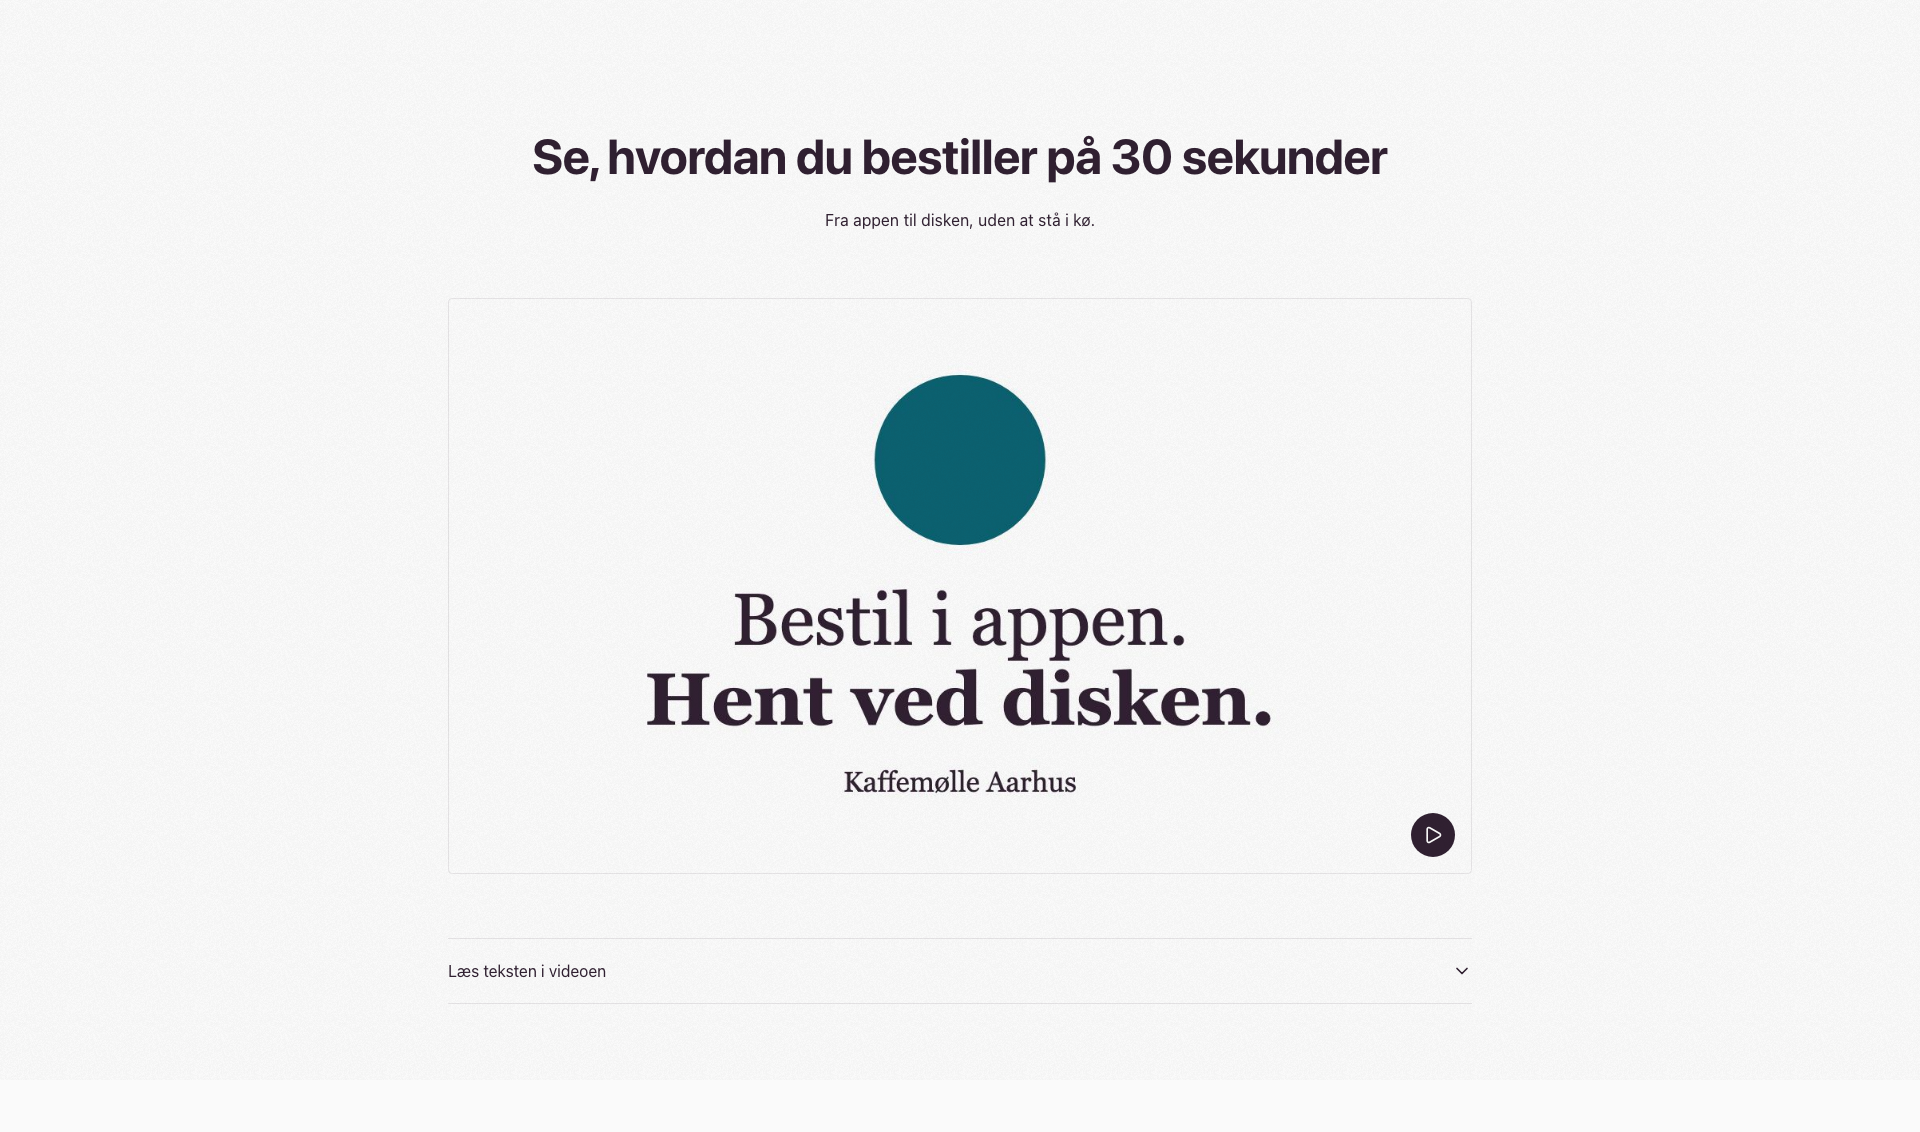
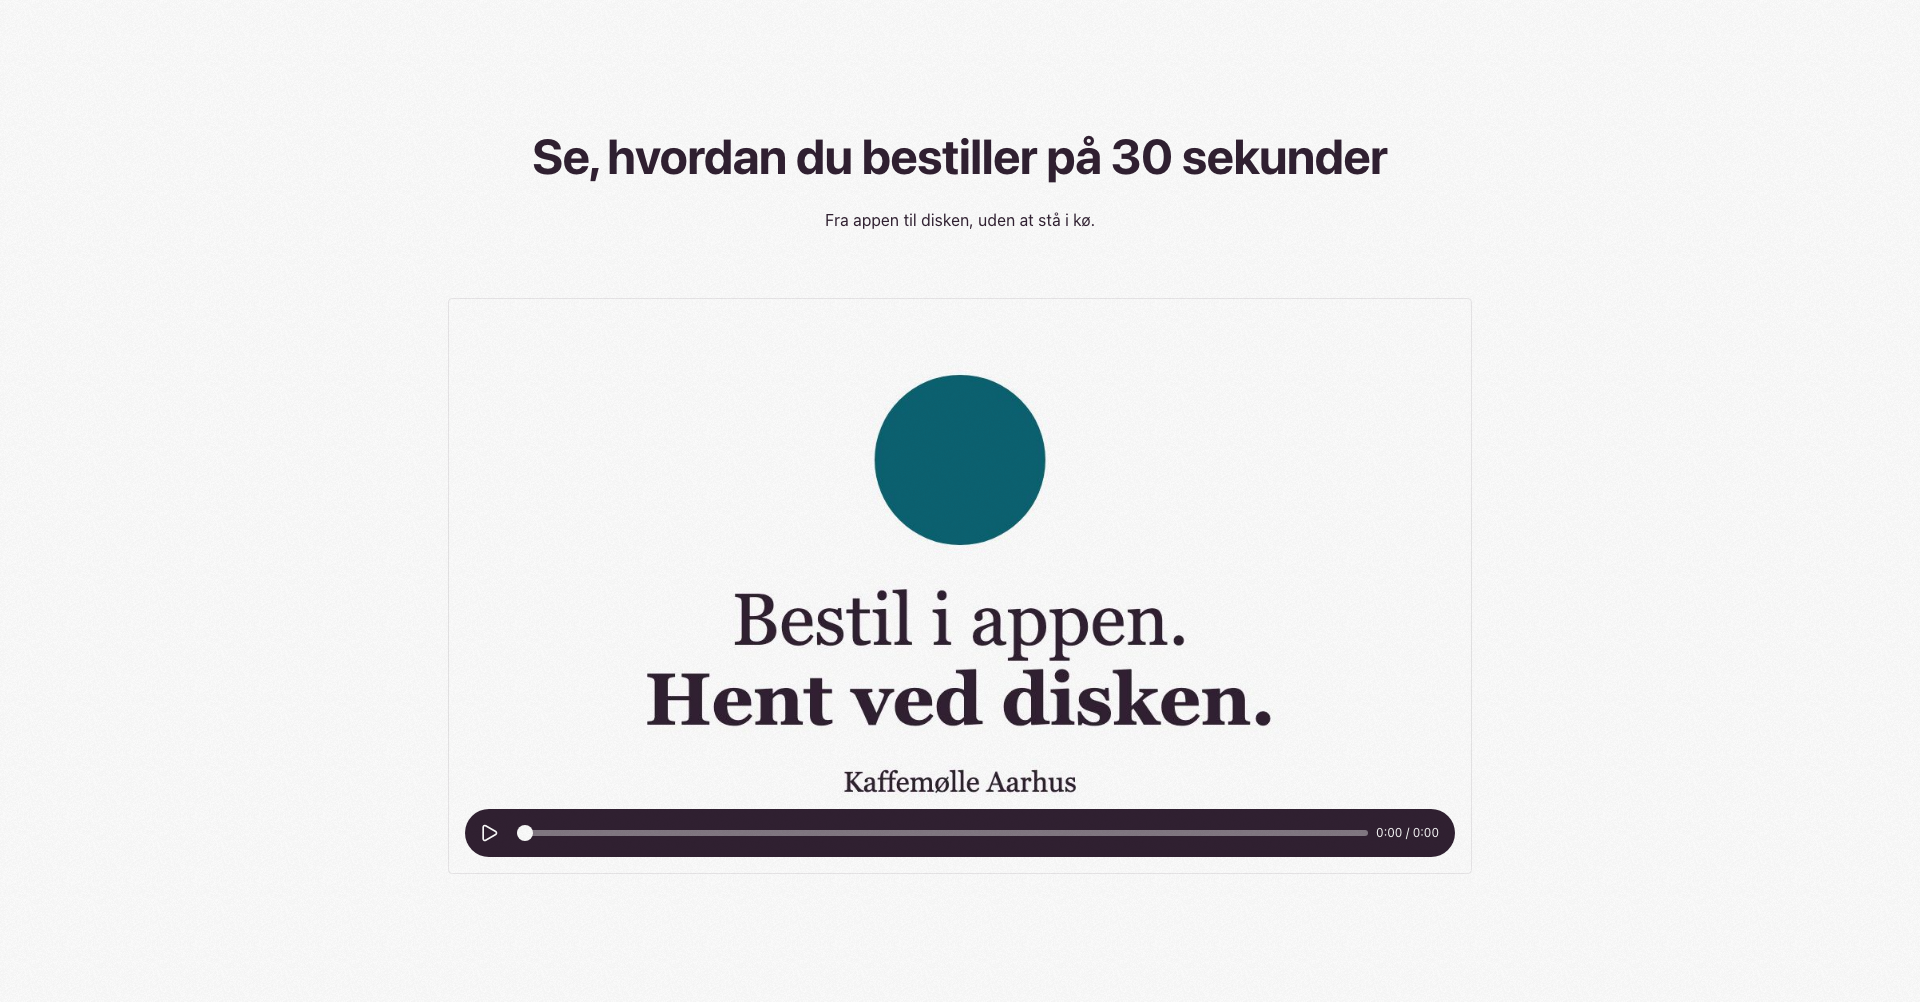
video: seek bar with time, transcript only for screen readers
EviVideo gets a control bar: play/pause, a native range slider to scrub
(keyboard 1 s per arrow) and the time. The slider is styled per engine
(fill from --seek-progress, contrast-safe primary on the dark bar). The
transcript is no longer a visible disclosure but stays as sr-only text,
since the muted video needs a text alternative (WCAG 1.2.1).

diff --git a/src/components/ui/EviVideo.tsx b/src/components/ui/EviVideo.tsx
@@ -3,6 +3,7 @@
 import { useEffect, useRef, useState } from "react";
 import { Pause, Play } from "lucide-react";
 
+import { EviStack } from "@/src/components/layout/EviStack";
 import { cn } from "@/src/lib/utils/cn";
 
 // Samme brud som EviImage's <picture>, så startbillede og video skifter sammen.
@@ -13,15 +14,27 @@ function play(video: HTMLVideoElement): void {
   video.play().catch(() => undefined);
 }
 
+/** 74.3 → "1:14". */
+function clock(seconds: number): string {
+  const s = Math.max(0, Math.floor(seconds));
+  return `${Math.floor(s / 60)}:${String(s % 60).padStart(2, "0")}`;
+}
+
+export type EviVideoLabels = {
+  play: string;
+  pause: string;
+  /** Tidslinjens navn, fx "Spol i videoen". */
+  seek: string;
+  /** Ordet mellem tiderne til skærmlæsere, fx "af" i "0:12 af 0:31". */
+  of: string;
+};
+
 export type EviVideoProps = {
   /** MP4 (16:9). Bruges på alle skærme, hvis der ikke er en mobilvideo. */
   src: string;
   /** MP4 (9:16) til skærme op til 768px. */
   mobileSrc?: string | null;
-  /** Etiket på afspil-knappen (kun ikon, så den læses op). */
-  playLabel: string;
-  /** Etiket på pause-knappen. */
-  pauseLabel: string;
+  labels: EviVideoLabels;
   /** Startbilledet (fx EviImage), vist bag videoen, til den spiller. */
   children?: React.ReactNode;
   className?: string;
@@ -30,15 +43,14 @@ export type EviVideoProps = {
 /**
  * EviVideo — lydløs video i loop, fx en forklarende video. Den spiller kun,
  * mens den er synlig, og hentes først der (preload="none"). Ønsker man
- * reduceret bevægelse, starter den på pause med startbilledet, og knappen
- * nederst til højre kan altid stoppe den (WCAG 2.2.2). Ingen cookies: en
- * almindelig <video> uden afspiller fra tredjepart.
+ * reduceret bevægelse, starter den på pause med startbilledet. Bjælken nederst
+ * kan altid stoppe den (WCAG 2.2.2) og spole frem og tilbage. Ingen cookies:
+ * en almindelig <video> uden afspiller fra tredjepart.
  */
 export function EviVideo({
   src,
   mobileSrc,
-  playLabel,
-  pauseLabel,
+  labels,
   children,
   className,
 }: EviVideoProps): React.ReactElement {
@@ -46,6 +58,8 @@ export function EviVideo({
   // En pause, man selv har valgt, skal ikke ophæves, når videoen ruller ind igen.
   const paused_by_user = useRef(false);
   const [playing, setPlaying] = useState(false);
+  const [time, setTime] = useState(0);
+  const [duration, setDuration] = useState(0);
 
   useEffect(() => {
     const video = ref.current;
@@ -61,11 +75,8 @@ export function EviVideo({
 
     const observer = new IntersectionObserver(
       ([entry]) => {
-        if (entry?.isIntersecting && !paused_by_user.current) {
-          play(video);
-        } else if (!entry?.isIntersecting) {
-          video.pause();
-        }
+        if (entry?.isIntersecting && !paused_by_user.current) play(video);
+        else if (!entry?.isIntersecting) video.pause();
       },
       { threshold: 0.4 },
     );
@@ -88,7 +99,28 @@ export function EviVideo({
     }
   };
 
+  // Står videoen på pause fra start (reduceret bevægelse), er intet hentet
+  // endnu; længden hentes, så snart man nærmer sig bjælken.
+  const load_duration = () => {
+    const video = ref.current;
+    if (!video || video.readyState > 0) return;
+    video.preload = "metadata";
+    video.load();
+  };
+
+  const seek = (event: React.ChangeEvent<HTMLInputElement>) => {
+    const video = ref.current;
+    if (!video) return;
+    const value = Number(event.target.value);
+    video.currentTime = value;
+    setTime(value);
+  };
+
   const Icon = playing ? Pause : Play;
+  const progress = duration ? (time / duration) * 100 : 0;
+  const seek_style: React.CSSProperties & { "--seek-progress": string } = {
+    "--seek-progress": `${progress}%`,
+  };
 
   return (
     <div
@@ -109,24 +141,52 @@ export function EviVideo({
         preload="none"
         width={1920}
         height={1080}
-        // Dekorativ: teksten står i sektionens udskrift, og knappen styrer den.
+        // Dekorativ: teksten står skjult i sektionen til skærmlæsere, og
+        // bjælken styrer den.
         aria-hidden="true"
         tabIndex={-1}
         onPlay={() => setPlaying(true)}
         onPause={() => setPlaying(false)}
+        onTimeUpdate={(event) => setTime(event.currentTarget.currentTime)}
+        onLoadedMetadata={(event) => setDuration(event.currentTarget.duration)}
         className="absolute inset-0 size-full object-cover"
       >
         {mobileSrc && <source media={MOBILE_MEDIA} src={mobileSrc} type="video/mp4" />}
         <source src={src} type="video/mp4" />
       </video>
-      <button
-        type="button"
-        onClick={toggle}
-        aria-label={playing ? pauseLabel : playLabel}
-        className="absolute right-3 bottom-3 grid size-11 cursor-pointer place-items-center rounded-full bg-evi-dark text-evi-text-on-dark focus-visible:outline-2 focus-visible:outline-offset-2 focus-visible:outline-evi-dark md:right-4 md:bottom-4"
+      <EviStack
+        direction="row"
+        align="center"
+        gap="sm"
+        onPointerEnter={load_duration}
+        onFocus={load_duration}
+        className="absolute inset-x-3 bottom-3 rounded-full bg-evi-dark py-1 ps-1 pe-4 text-evi-text-on-dark md:inset-x-4 md:bottom-4"
       >
-        <Icon aria-hidden="true" className="size-5" />
-      </button>
+        <button
+          type="button"
+          onClick={toggle}
+          aria-label={playing ? labels.pause : labels.play}
+          className="grid size-10 shrink-0 cursor-pointer place-items-center rounded-full focus-visible:outline-2 focus-visible:-outline-offset-2 focus-visible:outline-current"
+        >
+          <Icon aria-hidden="true" className="size-5" />
+        </button>
+        <input
+          type="range"
+          min={0}
+          max={duration || 1}
+          // Ét sekund pr. piletast; 0,1 var for langsomt at spole med.
+          step={1}
+          value={time}
+          onChange={seek}
+          aria-label={labels.seek}
+          aria-valuetext={`${clock(time)} ${labels.of} ${clock(duration)}`}
+          style={seek_style}
+          className="evi-seek min-w-0 flex-1"
+        />
+        <span aria-hidden="true" className="text-xs whitespace-nowrap tabular-nums">
+          {clock(time)} / {clock(duration)}
+        </span>
+      </EviStack>
     </div>
   );
 }

diff --git a/src/components/video/parts/VideoDefaultLayout.tsx b/src/components/video/parts/VideoDefaultLayout.tsx
@@ -4,10 +4,6 @@ import { EviRow } from "@/src/components/layout/EviRow";
 import { EviSection } from "@/src/components/layout/EviSection";
 import { EviHeadingGroup } from "@/src/components/typography/EviHeadingGroup";
 import { EviRichText } from "@/src/components/typography/EviRichText";
-import {
-  EviAccordion,
-  EviAccordionItem,
-} from "@/src/components/ui/EviAccordion";
 import { EviImage } from "@/src/components/ui/EviImage";
 import { EviVideo } from "@/src/components/ui/EviVideo";
 import { system_copy } from "@/src/lib/i18n/system-pages";
@@ -23,9 +19,8 @@ export type VideoDefaultLayoutProps = {
 };
 
 /**
- * Video "default": valgfri overskrift, en lydløs video i loop (16:9, og 9:16 på
- * mobil, hvis den findes) og videoens tekst bag en åbner. Domain-part
- * (Tailwind tilladt, R3.3).
+ * Video "default": valgfri overskrift og en lydløs video i loop (16:9, og 9:16
+ * på mobil, hvis den findes). Domain-part (Tailwind tilladt, R3.3).
  */
 export function VideoDefaultLayout({
   slice,
@@ -61,8 +56,12 @@ export function VideoDefaultLayout({
         <EviVideo
           src={p.video.url}
           mobileSrc={mobile}
-          playLabel={copy.videoPlay}
-          pauseLabel={copy.videoPause}
+          labels={{
+            play: copy.videoPlay,
+            pause: copy.videoPause,
+            seek: copy.videoSeek,
+            of: copy.videoOf,
+          }}
           className="mx-auto max-w-5xl"
         >
           <EviImage
@@ -78,15 +77,13 @@ export function VideoDefaultLayout({
           />
         </EviVideo>
       </EviRow>
-      {isFilled.richText(p.transcript) && (
-        <EviRow>
-          <EviAccordion className="mx-auto max-w-5xl">
-            <EviAccordionItem summary={copy.videoTranscript}>
-              <EviRichText field={p.transcript} linkResolver={linkResolver} />
-            </EviAccordionItem>
-          </EviAccordion>
-        </EviRow>
-      )}
+      {/* Videoen har ingen lyd, så teksten er dens alternativ til skærmlæsere
+          (WCAG 1.2.1). Synlig var den i vejen, så den er kun til dem. */}
+      <EviRichText
+        field={p.transcript}
+        linkResolver={linkResolver}
+        className="sr-only"
+      />
     </EviSection>
   );
 }

diff --git a/app/globals.css b/app/globals.css
@@ -236,6 +236,60 @@
       0 4px 8px -4px color-mix(in oklch, currentColor 9%, transparent);
   }
 
+  /* EviVideo's tidslinje: et rigtigt range-input (tastatur, træk og skærmlæser
+     gratis), stylet ens i alle browsere. Fyldet kommer fra --seek-progress, som
+     komponenten sætter, fordi WebKit ikke har et pseudo-element til det. Sporet
+     er 40 % af tekstfarven, så det står med mindst 3:1 på den mørke bjælke. */
+  .evi-seek {
+    --seek-track: color-mix(in oklch, currentColor 40%, transparent);
+    /* Primær, når den kan ses på mørk bund; ellers tekstfarven (kontrast-token). */
+    --seek-fill: var(--btn-primary-ink-on-dark);
+    appearance: none;
+    block-size: 2.25rem;
+    margin: 0;
+    background: transparent;
+    cursor: pointer;
+  }
+  .evi-seek::-webkit-slider-runnable-track {
+    block-size: 0.375rem;
+    border-radius: 999px;
+    background: linear-gradient(
+      to right,
+      var(--seek-fill) var(--seek-progress, 0%),
+      var(--seek-track) var(--seek-progress, 0%)
+    );
+  }
+  .evi-seek::-webkit-slider-thumb {
+    appearance: none;
+    inline-size: 1rem;
+    block-size: 1rem;
+    margin-block-start: -0.3125rem;
+    border-radius: 50%;
+    background: currentColor;
+  }
+  .evi-seek::-moz-range-track {
+    block-size: 0.375rem;
+    border-radius: 999px;
+    background: var(--seek-track);
+  }
+  .evi-seek::-moz-range-progress {
+    block-size: 0.375rem;
+    border-radius: 999px;
+    background: var(--seek-fill);
+  }
+  .evi-seek::-moz-range-thumb {
+    inline-size: 1rem;
+    block-size: 1rem;
+    border: 0;
+    border-radius: 50%;
+    background: currentColor;
+  }
+  .evi-seek:focus-visible {
+    outline: 2px solid currentColor;
+    outline-offset: 2px;
+    border-radius: 999px;
+  }
+
   /* A. Solide temaer */
   .theme-light {
     --theme-bg: var(--color-light);

diff --git a/src/lib/i18n/system-pages.ts b/src/lib/i18n/system-pages.ts
@@ -13,10 +13,11 @@ export type SystemPageCopy = {
   retry: string;
   /** Skip-link (WCAG 2.4.1) i root-layout'et — engine-chrome, oversættes her. */
   skipToContent: string;
-  /** EviVideo's knap og udskriftens åbner. */
+  /** EviVideo's kontroller; videoOf står mellem tiderne ("0:12 af 0:31"). */
   videoPlay: string;
   videoPause: string;
-  videoTranscript: string;
+  videoSeek: string;
+  videoOf: string;
 };
 
 const EN: SystemPageCopy = {
@@ -29,7 +30,8 @@ const EN: SystemPageCopy = {
   skipToContent: "Skip to content",
   videoPlay: "Play video",
   videoPause: "Pause video",
-  videoTranscript: "Read the text in the video",
+  videoSeek: "Seek in the video",
+  videoOf: "of",
 };
 
 const COPY: Record<string, SystemPageCopy> = {
@@ -44,7 +46,8 @@ const COPY: Record<string, SystemPageCopy> = {
     skipToContent: "Spring til indhold",
     videoPlay: "Afspil video",
     videoPause: "Sæt video på pause",
-    videoTranscript: "Læs teksten i videoen",
+    videoSeek: "Spol i videoen",
+    videoOf: "af",
   },
 };
 
